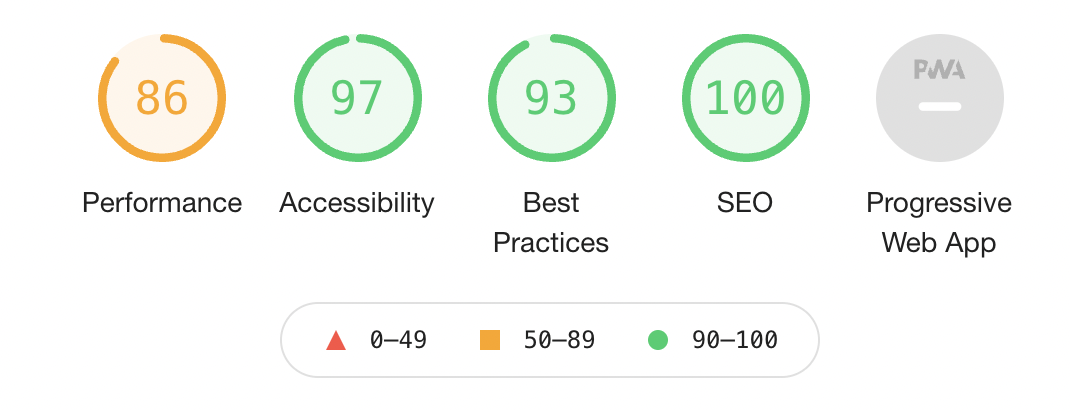
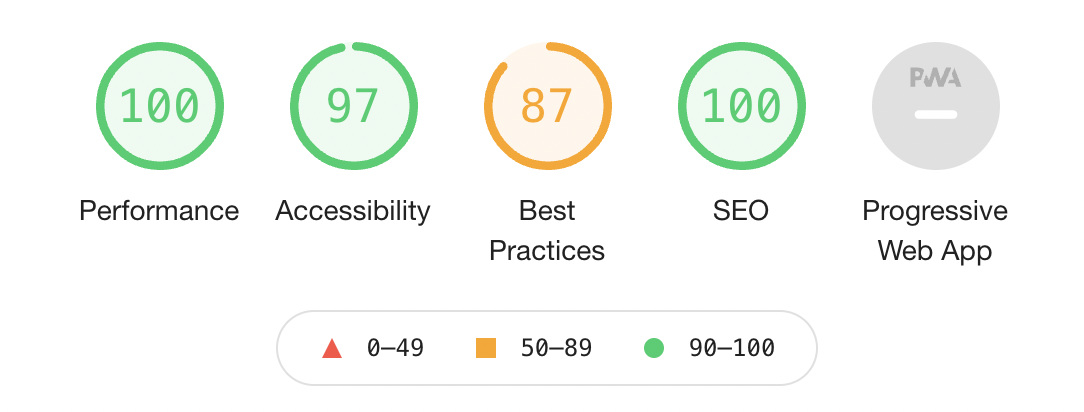
Update readme

diff --git a/assets/css/style.css b/assets/css/style.css
@@ -13,6 +13,7 @@ body {
     font-family: raleway, sans-serif;
     font-weight: 600;
     letter-spacing: 4px;
+    overflow-x: hidden;
 }
 
 header {
@@ -368,6 +369,10 @@ footer {
    padding: 25px;
 }
 
+.pair-buttons li {
+    display:inline-block;
+}
+
 .buttons:hover {
     color: #560319;
 }
@@ -389,7 +394,7 @@ footer {
 
 .submit-text {
     height: 30px;
-    margin-top: 30px;
+    margin-top: 150px;
     margin-bottom: 20%;
 }
 
@@ -407,6 +412,10 @@ footer {
     .service-container {
         display: block;
         margin: auto;
+    }
+
+    #icons {
+        margin: 120px 0;
     }
 }
 
@@ -431,10 +440,6 @@ footer {
     #menu-items li a {
         text-align: center;
         
-    }
-    
-    .services-header {
-        margin-top: 10%;
     }
 
     .service-plans-container {
@@ -575,7 +580,8 @@ footer {
     }
 
     .submit-text {
-        margin-top: 60%;
+        margin-top: 70%;
+        margin-bottom: 0;
         height: 600px;
     }
 

diff --git a/README.md b/README.md
@@ -77,6 +77,7 @@ This page is a simple acknowledgement and thanks to the user that we have receiv
 discuss any maintenance / servicing queries.
 - A gallery, illustrating the various scenic rides we offer.
 - Some animation features across the whole site once developers skill improves.
+- In order to improve site performance, I would like to optimise the image size to ensure the image improves performance whilst still being of clear quality.
 
 ## User Experience (UX)
 
@@ -141,6 +142,7 @@ The Bike People can be viewed [here](https://jamitag.github.io/The-Bike-People/)
 - I also used a Hero image on each of my pages with parallels to Love Running.
 - I got influence for my servicing details from both of these businesses 
 [Harts](https://harts-cyclery.co.uk/servicing) & [Evans](https://www.evanscycles.com/book-a-service).
+- I was able to fix the horizontal scrolling issue by identifying elements with too much margin or padding which seemed to resolve the issue. To be certain no more horizontal scrolling would occur I applied the "overflow-x: hidden" attribute to the body. This was found in the following [link](https://www.w3schools.com/howto/howto_css_hide_scrollbars.asp).
 
 ### Media
 
